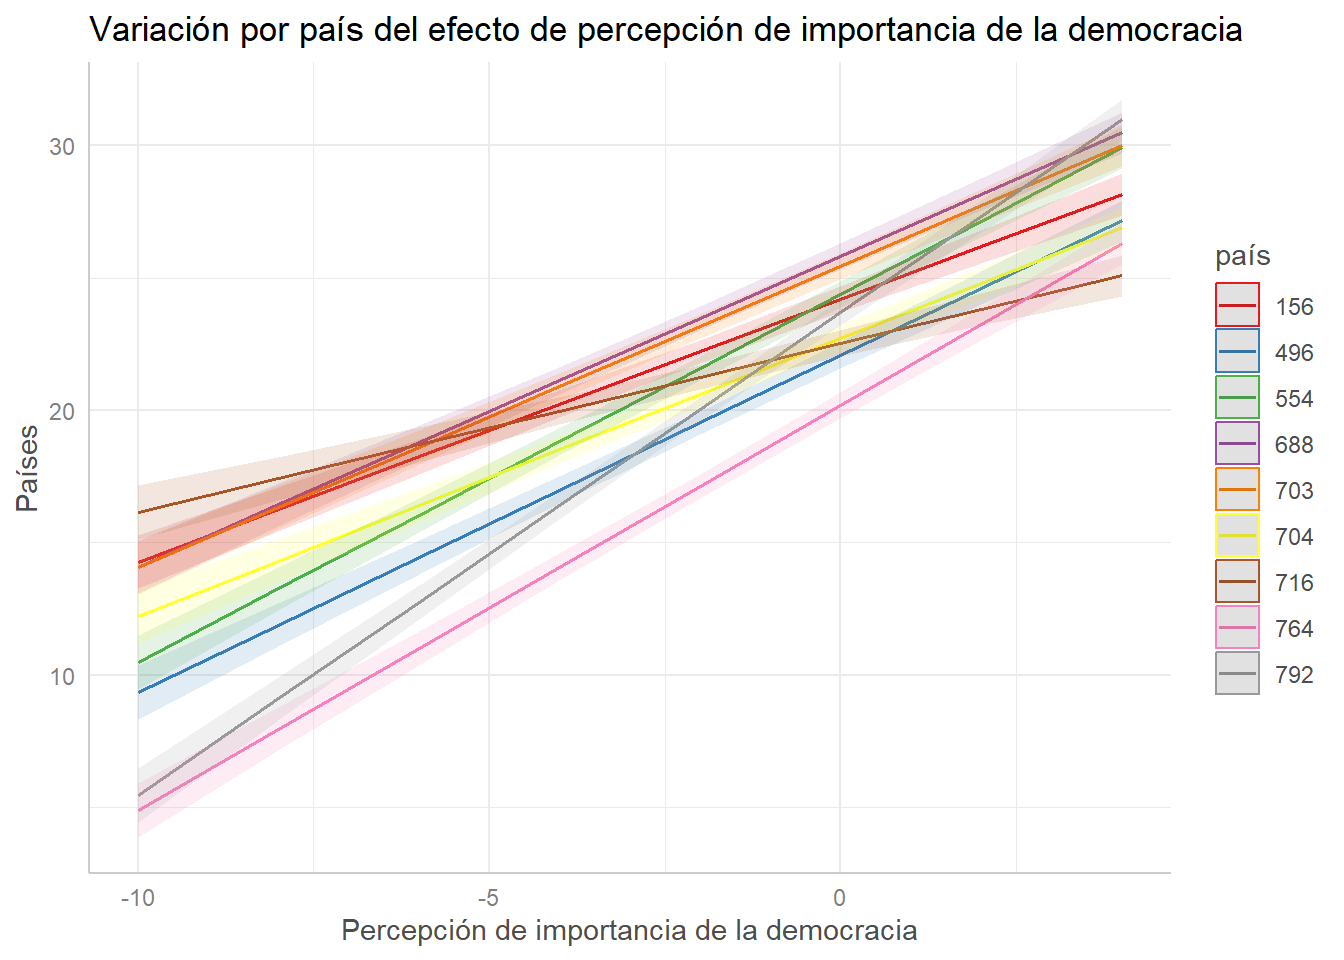
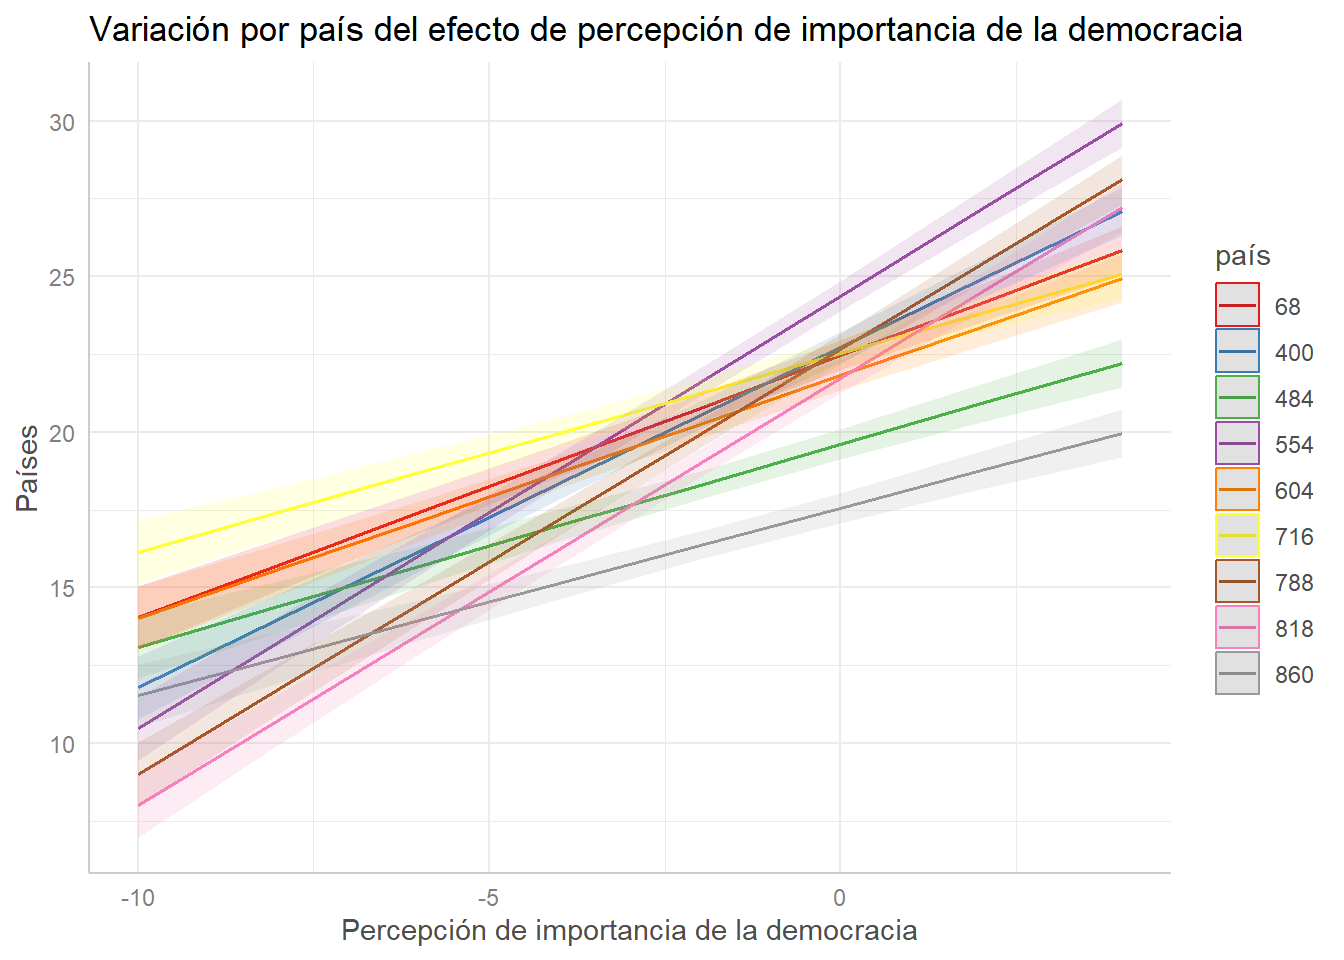
cambio modelo de interacción y calculo de devianzas

diff --git a/informe_grupo 9.html b/informe_grupo 9.html
@@ -2,7 +2,7 @@
 <html xmlns="http://www.w3.org/1999/xhtml" lang="es" xml:lang="es"><head>
 
 <meta charset="utf-8">
-<meta name="generator" content="quarto-1.6.42">
+<meta name="generator" content="quarto-1.5.57">
 
 <meta name="viewport" content="width=device-width, initial-scale=1.0, user-scalable=yes">
 
@@ -30,10 +30,10 @@ ul.task-list li input[type="checkbox"] {
 <script src="informe_grupo 9_files/libs/quarto-html/tippy.umd.min.js"></script>
 <script src="informe_grupo 9_files/libs/quarto-html/anchor.min.js"></script>
 <link href="informe_grupo 9_files/libs/quarto-html/tippy.css" rel="stylesheet">
-<link href="informe_grupo 9_files/libs/quarto-html/quarto-syntax-highlighting-2f5df379a58b258e96c21c0638c20c03.css" rel="stylesheet" id="quarto-text-highlighting-styles">
+<link href="informe_grupo 9_files/libs/quarto-html/quarto-syntax-highlighting.css" rel="stylesheet" id="quarto-text-highlighting-styles">
 <script src="informe_grupo 9_files/libs/bootstrap/bootstrap.min.js"></script>
 <link href="informe_grupo 9_files/libs/bootstrap/bootstrap-icons.css" rel="stylesheet">
-<link href="informe_grupo 9_files/libs/bootstrap/bootstrap-1bc8a17f135ab3d594c857e9f48e611b.min.css" rel="stylesheet" append-hash="true" id="quarto-bootstrap" data-mode="light">
+<link href="informe_grupo 9_files/libs/bootstrap/bootstrap.min.css" rel="stylesheet" id="quarto-bootstrap" data-mode="light">
 <script src="informe_grupo 9_files/libs/kePrint-0.0.1/kePrint.js"></script>
 
 <link href="informe_grupo 9_files/libs/lightable-0.0.1/lightable.css" rel="stylesheet">
@@ -619,7 +619,7 @@ Yij: Apoyo a la democracia liberal (índice de Q243 + Q246 + Q249) del individuo
 <td style=" padding:0.2cm; text-align:left; vertical-align:top; text-align:center;  4">23.37</td>
 <td style=" padding:0.2cm; text-align:left; vertical-align:top; text-align:center;  5">0.25</td>
 <td style=" padding:0.2cm; text-align:left; vertical-align:top; text-align:center;  6"><strong>&lt;0.001</strong></td>
-<td style=" padding:0.2cm; text-align:left; vertical-align:top; text-align:center;  7">23.36</td>
+<td style=" padding:0.2cm; text-align:left; vertical-align:top; text-align:center;  7">23.39</td>
 <td style=" padding:0.2cm; text-align:left; vertical-align:top; text-align:center;  8">0.25</td>
 <td style=" padding:0.2cm; text-align:left; vertical-align:top; text-align:center;  9"><strong>&lt;0.001</strong></td>
 </tr>
@@ -640,9 +640,9 @@ Yij: Apoyo a la democracia liberal (índice de Q243 + Q246 + Q249) del individuo
 <td style=" padding:0.2cm; text-align:left; vertical-align:top; text-align:center;  4">-0.02</td>
 <td style=" padding:0.2cm; text-align:left; vertical-align:top; text-align:center;  5">0.01</td>
 <td style=" padding:0.2cm; text-align:left; vertical-align:top; text-align:center;  6"><strong>0.026</strong></td>
-<td style=" padding:0.2cm; text-align:left; vertical-align:top; text-align:center;  7">-0.02</td>
+<td style=" padding:0.2cm; text-align:left; vertical-align:top; text-align:center;  7">-0.01</td>
 <td style=" padding:0.2cm; text-align:left; vertical-align:top; text-align:center;  8">0.01</td>
-<td style=" padding:0.2cm; text-align:left; vertical-align:top; text-align:center;  9"><strong>0.025</strong></td>
+<td style=" padding:0.2cm; text-align:left; vertical-align:top; text-align:center;  9">0.327</td>
 </tr>
 <tr>
 <td style=" padding:0.2cm; text-align:left; vertical-align:top; text-align:left; ">mujer</td>
@@ -661,9 +661,9 @@ Yij: Apoyo a la democracia liberal (índice de Q243 + Q246 + Q249) del individuo
 <td style=" padding:0.2cm; text-align:left; vertical-align:top; text-align:center;  4">-0.11</td>
 <td style=" padding:0.2cm; text-align:left; vertical-align:top; text-align:center;  5">0.04</td>
 <td style=" padding:0.2cm; text-align:left; vertical-align:top; text-align:center;  6"><strong>0.002</strong></td>
-<td style=" padding:0.2cm; text-align:left; vertical-align:top; text-align:center;  7">-0.09</td>
+<td style=" padding:0.2cm; text-align:left; vertical-align:top; text-align:center;  7">-0.11</td>
 <td style=" padding:0.2cm; text-align:left; vertical-align:top; text-align:center;  8">0.07</td>
-<td style=" padding:0.2cm; text-align:left; vertical-align:top; text-align:center;  9">0.179</td>
+<td style=" padding:0.2cm; text-align:left; vertical-align:top; text-align:center;  9">0.141</td>
 </tr>
 <tr>
 <td style=" padding:0.2cm; text-align:left; vertical-align:top; text-align:left; ">imp dem cmc</td>
@@ -683,7 +683,7 @@ Yij: Apoyo a la democracia liberal (índice de Q243 + Q246 + Q249) del individuo
 <td style=" padding:0.2cm; text-align:left; vertical-align:top; text-align:center;  5">0.06</td>
 <td style=" padding:0.2cm; text-align:left; vertical-align:top; text-align:center;  6"><strong>&lt;0.001</strong></td>
 <td style=" padding:0.2cm; text-align:left; vertical-align:top; text-align:center;  7">1.08</td>
-<td style=" padding:0.2cm; text-align:left; vertical-align:top; text-align:center;  8">0.06</td>
+<td style=" padding:0.2cm; text-align:left; vertical-align:top; text-align:center;  8">0.01</td>
 <td style=" padding:0.2cm; text-align:left; vertical-align:top; text-align:center;  9"><strong>&lt;0.001</strong></td>
 </tr>
 <tr>
@@ -703,9 +703,9 @@ Yij: Apoyo a la democracia liberal (índice de Q243 + Q246 + Q249) del individuo
 <td style=" padding:0.2cm; text-align:left; vertical-align:top; text-align:center;  4">0.01</td>
 <td style=" padding:0.2cm; text-align:left; vertical-align:top; text-align:center;  5">0.23</td>
 <td style=" padding:0.2cm; text-align:left; vertical-align:top; text-align:center;  6">0.976</td>
-<td style=" padding:0.2cm; text-align:left; vertical-align:top; text-align:center;  7">0.04</td>
-<td style=" padding:0.2cm; text-align:left; vertical-align:top; text-align:center;  8">0.23</td>
-<td style=" padding:0.2cm; text-align:left; vertical-align:top; text-align:center;  9">0.863</td>
+<td style=" padding:0.2cm; text-align:left; vertical-align:top; text-align:center;  7">0.27</td>
+<td style=" padding:0.2cm; text-align:left; vertical-align:top; text-align:center;  8">0.25</td>
+<td style=" padding:0.2cm; text-align:left; vertical-align:top; text-align:center;  9">0.284</td>
 </tr>
 <tr>
 <td style=" padding:0.2cm; text-align:left; vertical-align:top; text-align:left; ">prom imp dem gmc</td>
@@ -724,8 +724,8 @@ Yij: Apoyo a la democracia liberal (índice de Q243 + Q246 + Q249) del individuo
 <td style=" padding:0.2cm; text-align:left; vertical-align:top; text-align:center;  4">2.36</td>
 <td style=" padding:0.2cm; text-align:left; vertical-align:top; text-align:center;  5">0.40</td>
 <td style=" padding:0.2cm; text-align:left; vertical-align:top; text-align:center;  6"><strong>&lt;0.001</strong></td>
-<td style=" padding:0.2cm; text-align:left; vertical-align:top; text-align:center;  7">2.36</td>
-<td style=" padding:0.2cm; text-align:left; vertical-align:top; text-align:center;  8">0.40</td>
+<td style=" padding:0.2cm; text-align:left; vertical-align:top; text-align:center;  7">2.19</td>
+<td style=" padding:0.2cm; text-align:left; vertical-align:top; text-align:center;  8">0.43</td>
 <td style=" padding:0.2cm; text-align:left; vertical-align:top; text-align:center;  9"><strong>&lt;0.001</strong></td>
 </tr>
 <tr>
@@ -745,9 +745,9 @@ Yij: Apoyo a la democracia liberal (índice de Q243 + Q246 + Q249) del individuo
 <td style=" padding:0.2cm; text-align:left; vertical-align:top; text-align:center;  4"></td>
 <td style=" padding:0.2cm; text-align:left; vertical-align:top; text-align:center;  5"></td>
 <td style=" padding:0.2cm; text-align:left; vertical-align:top; text-align:center;  6"></td>
-<td style=" padding:0.2cm; text-align:left; vertical-align:top; text-align:center;  7">-0.06</td>
+<td style=" padding:0.2cm; text-align:left; vertical-align:top; text-align:center;  7">-0.08</td>
 <td style=" padding:0.2cm; text-align:left; vertical-align:top; text-align:center;  8">0.07</td>
-<td style=" padding:0.2cm; text-align:left; vertical-align:top; text-align:center;  9">0.337</td>
+<td style=" padding:0.2cm; text-align:left; vertical-align:top; text-align:center;  9">0.225</td>
 </tr>
 <tr>
 <td colspan="19" style="font-weight:bold; text-align:left; padding-top:.8em;">Random Effects</td>
@@ -760,7 +760,7 @@ Yij: Apoyo a la democracia liberal (índice de Q243 + Q246 + Q249) del individuo
 <td style=" padding:0.2cm; text-align:left; vertical-align:top; padding-top:0.1cm; padding-bottom:0.1cm; text-align:left;" colspan="3">34.40</td>
 <td style=" padding:0.2cm; text-align:left; vertical-align:top; padding-top:0.1cm; padding-bottom:0.1cm; text-align:left;" colspan="3">29.58</td>
 <td style=" padding:0.2cm; text-align:left; vertical-align:top; padding-top:0.1cm; padding-bottom:0.1cm; text-align:left;" colspan="3">28.72</td>
-<td style=" padding:0.2cm; text-align:left; vertical-align:top; padding-top:0.1cm; padding-bottom:0.1cm; text-align:left;" colspan="3">28.67</td>
+<td style=" padding:0.2cm; text-align:left; vertical-align:top; padding-top:0.1cm; padding-bottom:0.1cm; text-align:left;" colspan="3">29.51</td>
 </tr>
 
 <tr>
@@ -770,7 +770,7 @@ Yij: Apoyo a la democracia liberal (índice de Q243 + Q246 + Q249) del individuo
 <td style=" padding:0.2cm; text-align:left; vertical-align:top; padding-top:0.1cm; padding-bottom:0.1cm; text-align:left;" colspan="3">4.18 <sub>país</sub></td>
 <td style=" padding:0.2cm; text-align:left; vertical-align:top; padding-top:0.1cm; padding-bottom:0.1cm; text-align:left;" colspan="3">4.19 <sub>país</sub></td>
 <td style=" padding:0.2cm; text-align:left; vertical-align:top; padding-top:0.1cm; padding-bottom:0.1cm; text-align:left;" colspan="3">4.04 <sub>país</sub></td>
-<td style=" padding:0.2cm; text-align:left; vertical-align:top; padding-top:0.1cm; padding-bottom:0.1cm; text-align:left;" colspan="3">4.07 <sub>país</sub></td>
+<td style=" padding:0.2cm; text-align:left; vertical-align:top; padding-top:0.1cm; padding-bottom:0.1cm; text-align:left;" colspan="3">4.03 <sub>país</sub></td>
 
 </tr><tr>
 <td style=" padding:0.2cm; text-align:left; vertical-align:top; text-align:left; padding-top:0.1cm; padding-bottom:0.1cm;">τ<sub>11</sub></td>
@@ -779,16 +779,7 @@ Yij: Apoyo a la democracia liberal (índice de Q243 + Q246 + Q249) del individuo
 <td style=" padding:0.2cm; text-align:left; vertical-align:top; padding-top:0.1cm; padding-bottom:0.1cm; text-align:left;" colspan="3">&nbsp;</td>
 <td style=" padding:0.2cm; text-align:left; vertical-align:top; padding-top:0.1cm; padding-bottom:0.1cm; text-align:left;" colspan="3">&nbsp;</td>
 <td style=" padding:0.2cm; text-align:left; vertical-align:top; padding-top:0.1cm; padding-bottom:0.1cm; text-align:left;" colspan="3">0.20 <sub>país.imp_dem_cmc</sub></td>
-<td style=" padding:0.2cm; text-align:left; vertical-align:top; padding-top:0.1cm; padding-bottom:0.1cm; text-align:left;" colspan="3">0.20 <sub>país.imp_dem_cmc</sub></td>
-
-</tr><tr>
-<td style=" padding:0.2cm; text-align:left; vertical-align:top; text-align:left; padding-top:0.1cm; padding-bottom:0.1cm;"></td>
-<td style=" padding:0.2cm; text-align:left; vertical-align:top; padding-top:0.1cm; padding-bottom:0.1cm; text-align:left;" colspan="3">&nbsp;</td>
-<td style=" padding:0.2cm; text-align:left; vertical-align:top; padding-top:0.1cm; padding-bottom:0.1cm; text-align:left;" colspan="3">&nbsp;</td>
-<td style=" padding:0.2cm; text-align:left; vertical-align:top; padding-top:0.1cm; padding-bottom:0.1cm; text-align:left;" colspan="3">&nbsp;</td>
-<td style=" padding:0.2cm; text-align:left; vertical-align:top; padding-top:0.1cm; padding-bottom:0.1cm; text-align:left;" colspan="3">&nbsp;</td>
-<td style=" padding:0.2cm; text-align:left; vertical-align:top; padding-top:0.1cm; padding-bottom:0.1cm; text-align:left;" colspan="3">&nbsp;</td>
-<td style=" padding:0.2cm; text-align:left; vertical-align:top; padding-top:0.1cm; padding-bottom:0.1cm; text-align:left;" colspan="3">0.22 <sub>país.mujer</sub></td>
+<td style=" padding:0.2cm; text-align:left; vertical-align:top; padding-top:0.1cm; padding-bottom:0.1cm; text-align:left;" colspan="3">0.24 <sub>país.mujer</sub></td>
 
 </tr><tr>
 <td style=" padding:0.2cm; text-align:left; vertical-align:top; text-align:left; padding-top:0.1cm; padding-bottom:0.1cm;">ρ<sub>01</sub></td>
@@ -797,16 +788,7 @@ Yij: Apoyo a la democracia liberal (índice de Q243 + Q246 + Q249) del individuo
 <td style=" padding:0.2cm; text-align:left; vertical-align:top; padding-top:0.1cm; padding-bottom:0.1cm; text-align:left;" colspan="3">&nbsp;</td>
 <td style=" padding:0.2cm; text-align:left; vertical-align:top; padding-top:0.1cm; padding-bottom:0.1cm; text-align:left;" colspan="3">&nbsp;</td>
 <td style=" padding:0.2cm; text-align:left; vertical-align:top; padding-top:0.1cm; padding-bottom:0.1cm; text-align:left;" colspan="3">0.41 <sub>país</sub></td>
-<td style=" padding:0.2cm; text-align:left; vertical-align:top; padding-top:0.1cm; padding-bottom:0.1cm; text-align:left;" colspan="3">0.43</td>
-
-</tr><tr>
-<td style=" padding:0.2cm; text-align:left; vertical-align:top; text-align:left; padding-top:0.1cm; padding-bottom:0.1cm;"></td>
-<td style=" padding:0.2cm; text-align:left; vertical-align:top; padding-top:0.1cm; padding-bottom:0.1cm; text-align:left;" colspan="3">&nbsp;</td>
-<td style=" padding:0.2cm; text-align:left; vertical-align:top; padding-top:0.1cm; padding-bottom:0.1cm; text-align:left;" colspan="3">&nbsp;</td>
-<td style=" padding:0.2cm; text-align:left; vertical-align:top; padding-top:0.1cm; padding-bottom:0.1cm; text-align:left;" colspan="3">&nbsp;</td>
-<td style=" padding:0.2cm; text-align:left; vertical-align:top; padding-top:0.1cm; padding-bottom:0.1cm; text-align:left;" colspan="3">&nbsp;</td>
-<td style=" padding:0.2cm; text-align:left; vertical-align:top; padding-top:0.1cm; padding-bottom:0.1cm; text-align:left;" colspan="3">&nbsp;</td>
-<td style=" padding:0.2cm; text-align:left; vertical-align:top; padding-top:0.1cm; padding-bottom:0.1cm; text-align:left;" colspan="3">-0.10</td>
+<td style=" padding:0.2cm; text-align:left; vertical-align:top; padding-top:0.1cm; padding-bottom:0.1cm; text-align:left;" colspan="3">-0.10 <sub>país</sub></td>
 
 </tr><tr>
 <td style=" padding:0.2cm; text-align:left; vertical-align:top; text-align:left; padding-top:0.1cm; padding-bottom:0.1cm;">ICC</td>
@@ -815,7 +797,7 @@ Yij: Apoyo a la democracia liberal (índice de Q243 + Q246 + Q249) del individuo
 <td style=" padding:0.2cm; text-align:left; vertical-align:top; padding-top:0.1cm; padding-bottom:0.1cm; text-align:left;" colspan="3">0.11</td>
 <td style=" padding:0.2cm; text-align:left; vertical-align:top; padding-top:0.1cm; padding-bottom:0.1cm; text-align:left;" colspan="3">0.12</td>
 <td style=" padding:0.2cm; text-align:left; vertical-align:top; padding-top:0.1cm; padding-bottom:0.1cm; text-align:left;" colspan="3">0.15</td>
-<td style=" padding:0.2cm; text-align:left; vertical-align:top; padding-top:0.1cm; padding-bottom:0.1cm; text-align:left;" colspan="3">0.15</td>
+<td style=" padding:0.2cm; text-align:left; vertical-align:top; padding-top:0.1cm; padding-bottom:0.1cm; text-align:left;" colspan="3">0.12</td>
 
 </tr><tr>
 <td style=" padding:0.2cm; text-align:left; vertical-align:top; text-align:left; padding-top:0.1cm; padding-bottom:0.1cm;">N</td>
@@ -841,7 +823,7 @@ Yij: Apoyo a la democracia liberal (índice de Q243 + Q246 + Q249) del individuo
 <td style=" padding:0.2cm; text-align:left; vertical-align:top; padding-top:0.1cm; padding-bottom:0.1cm; text-align:left;" colspan="3">0.044 / 0.148</td>
 <td style=" padding:0.2cm; text-align:left; vertical-align:top; padding-top:0.1cm; padding-bottom:0.1cm; text-align:left;" colspan="3">0.163 / 0.267</td>
 <td style=" padding:0.2cm; text-align:left; vertical-align:top; padding-top:0.1cm; padding-bottom:0.1cm; text-align:left;" colspan="3">0.165 / 0.286</td>
-<td style=" padding:0.2cm; text-align:left; vertical-align:top; padding-top:0.1cm; padding-bottom:0.1cm; text-align:left;" colspan="3">0.165 / 0.287</td>
+<td style=" padding:0.2cm; text-align:left; vertical-align:top; padding-top:0.1cm; padding-bottom:0.1cm; text-align:left;" colspan="3">0.164 / 0.265</td>
 </tr>
 
 </tbody></table>
@@ -881,7 +863,7 @@ Yij: Apoyo a la democracia liberal (índice de Q243 + Q246 + Q249) del individuo
 <th style="text-align: right;" data-quarto-table-cell-role="th">AIC</th>
 <th style="text-align: right;" data-quarto-table-cell-role="th">BIC</th>
 <th style="text-align: right;" data-quarto-table-cell-role="th">logLik</th>
-<th style="text-align: right;" data-quarto-table-cell-role="th">-2*log(L)</th>
+<th style="text-align: right;" data-quarto-table-cell-role="th">deviance</th>
 <th style="text-align: right;" data-quarto-table-cell-role="th">Chisq</th>
 <th style="text-align: right;" data-quarto-table-cell-role="th">Df</th>
 <th style="text-align: right;" data-quarto-table-cell-role="th">Pr(&gt;Chisq)</th>
@@ -921,7 +903,7 @@ Yij: Apoyo a la democracia liberal (índice de Q243 + Q246 + Q249) del individuo
 <div class="cell">
 <div class="cell-output-display">
 <table class="table caption-top table-sm table-striped small" data-quarto-postprocess="true">
-<caption>Tabla de devianza: comparación de modelos</caption>
+<caption>Tabla de devianza 1: Comparación Pendiente Fija con P.A. Mujer</caption>
 <thead>
 <tr class="header">
 <th style="text-align: left;" data-quarto-table-cell-role="th"></th>
@@ -929,7 +911,7 @@ Yij: Apoyo a la democracia liberal (índice de Q243 + Q246 + Q249) del individuo
 <th style="text-align: right;" data-quarto-table-cell-role="th">AIC</th>
 <th style="text-align: right;" data-quarto-table-cell-role="th">BIC</th>
 <th style="text-align: right;" data-quarto-table-cell-role="th">logLik</th>
-<th style="text-align: right;" data-quarto-table-cell-role="th">-2*log(L)</th>
+<th style="text-align: right;" data-quarto-table-cell-role="th">deviance</th>
 <th style="text-align: right;" data-quarto-table-cell-role="th">Chisq</th>
 <th style="text-align: right;" data-quarto-table-cell-role="th">Df</th>
 <th style="text-align: right;" data-quarto-table-cell-role="th">Pr(&gt;Chisq)</th>
@@ -958,26 +940,50 @@ Yij: Apoyo a la democracia liberal (índice de Q243 + Q246 + Q249) del individuo
 <td style="text-align: right;">2</td>
 <td style="text-align: right;">0</td>
 </tr>
+</tbody>
+</table>
+
+
+</div>
+</div>
+<div class="cell">
+<div class="cell-output-display">
+<table class="table caption-top table-sm table-striped small" data-quarto-postprocess="true">
+<caption>Tabla de devianza 2: Comparación Pendiente Fija con P.A. Mujer</caption>
+<thead>
+<tr class="header">
+<th style="text-align: left;" data-quarto-table-cell-role="th"></th>
+<th style="text-align: right;" data-quarto-table-cell-role="th">npar</th>
+<th style="text-align: right;" data-quarto-table-cell-role="th">AIC</th>
+<th style="text-align: right;" data-quarto-table-cell-role="th">BIC</th>
+<th style="text-align: right;" data-quarto-table-cell-role="th">logLik</th>
+<th style="text-align: right;" data-quarto-table-cell-role="th">deviance</th>
+<th style="text-align: right;" data-quarto-table-cell-role="th">Chisq</th>
+<th style="text-align: right;" data-quarto-table-cell-role="th">Df</th>
+<th style="text-align: right;" data-quarto-table-cell-role="th">Pr(&gt;Chisq)</th>
+</tr>
+</thead>
+<tbody>
 <tr class="odd">
-<td style="text-align: left;">P.A. Mujer</td>
-<td style="text-align: right;">10</td>
-<td style="text-align: right;">549324.1</td>
-<td style="text-align: right;">549418.0</td>
-<td style="text-align: right;">-274652.1</td>
-<td style="text-align: right;">549304.1</td>
-<td style="text-align: right;">0.000</td>
-<td style="text-align: right;">0</td>
+<td style="text-align: left;">Combinado (centrado)</td>
+<td style="text-align: right;">8</td>
+<td style="text-align: right;">549423.9</td>
+<td style="text-align: right;">549499.0</td>
+<td style="text-align: right;">-274704.0</td>
+<td style="text-align: right;">549407.9</td>
+<td style="text-align: right;">NA</td>
+<td style="text-align: right;">NA</td>
 <td style="text-align: right;">NA</td>
 </tr>
 <tr class="even">
-<td style="text-align: left;">P.A. Imp_dem y Mujer</td>
-<td style="text-align: right;">14</td>
-<td style="text-align: right;">546998.4</td>
-<td style="text-align: right;">547129.8</td>
-<td style="text-align: right;">-273485.2</td>
-<td style="text-align: right;">546970.4</td>
-<td style="text-align: right;">2333.753</td>
-<td style="text-align: right;">4</td>
+<td style="text-align: left;">P.A. Mujer</td>
+<td style="text-align: right;">11</td>
+<td style="text-align: right;">549324.7</td>
+<td style="text-align: right;">549427.9</td>
+<td style="text-align: right;">-274651.3</td>
+<td style="text-align: right;">549302.7</td>
+<td style="text-align: right;">105.2886</td>
+<td style="text-align: right;">3</td>
 <td style="text-align: right;">0</td>
 </tr>
 </tbody>
@@ -1015,7 +1021,7 @@ Yij: Apoyo a la democracia liberal (índice de Q243 + Q246 + Q249) del individuo
 <div class="cell-output-display">
 <div>
 <figure class="figure">
-<p><img src="informe_grupo-9_files/figure-html/unnamed-chunk-13-1.png" class="img-fluid figure-img" width="672"></p>
+<p><img src="informe_grupo-9_files/figure-html/unnamed-chunk-14-1.png" class="img-fluid figure-img" width="672"></p>
 </figure>
 </div>
 </div>
@@ -1027,7 +1033,7 @@ Yij: Apoyo a la democracia liberal (índice de Q243 + Q246 + Q249) del individuo
 <div class="cell-output-display">
 <div>
 <figure class="figure">
-<p><img src="informe_grupo-9_files/figure-html/unnamed-chunk-15-1.png" class="img-fluid figure-img" width="672"></p>
+<p><img src="informe_grupo-9_files/figure-html/unnamed-chunk-16-1.png" class="img-fluid figure-img" width="672"></p>
 </figure>
 </div>
 </div>
@@ -1126,6 +1132,8 @@ window.document.addEventListener("DOMContentLoaded", function (event) {
   });
   clipboard.on('success', onCopySuccess);
   if (window.document.getElementById('quarto-embedded-source-code-modal')) {
+    // For code content inside modals, clipBoardJS needs to be initialized with a container option
+    // TODO: Check when it could be a function (https://github.com/zenorocha/clipboard.js/issues/860)
     const clipboardModal = new window.ClipboardJS('.code-copy-button[data-in-quarto-modal]', {
       text: getTextToCopy,
       container: window.document.getElementById('quarto-embedded-source-code-modal')
@@ -1236,6 +1244,7 @@ window.document.addEventListener("DOMContentLoaded", function (event) {
       if (window.Quarto?.typesetMath) {
         window.Quarto.typesetMath(note);
       }
+      // TODO in 1.5, we should make sure this works without a callout special case
       if (note.classList.contains("callout")) {
         return note.outerHTML;
       } else {
